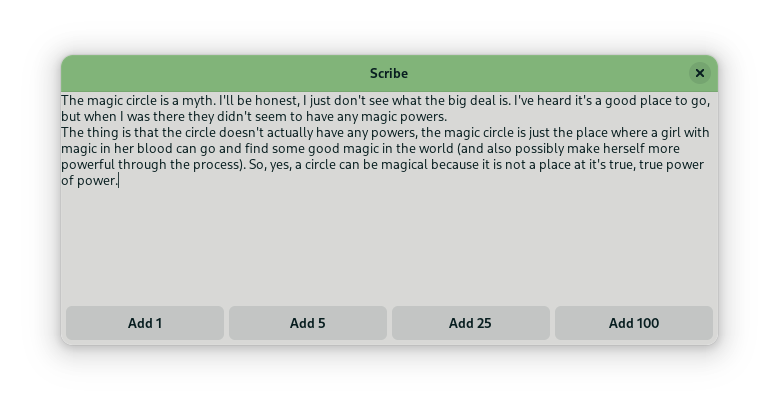
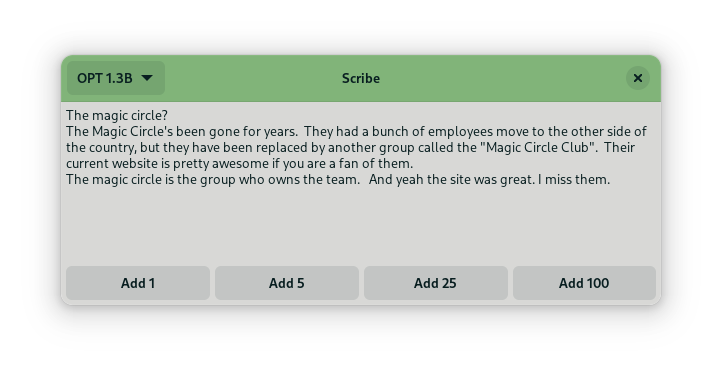
Add a selection of model sizes :sparkles:
Possible uses:
- Trade off between time and accuracy
- Comparing capabilities of the different models
- Selecting a smaller model on a less powerful device

diff --git a/scribe/__main__.py b/scribe/__main__.py
@@ -8,7 +8,14 @@ from threading import Thread
 import torch
 from transformers import AutoModelForCausalLM, AutoTokenizer
 
-MODEL = "facebook/opt-1.3b"
+MODELS = {
+    "OPT 125M": "facebook/opt-125m",
+    "OPT 350M": "facebook/opt-350m",
+    "OPT 1.3B": "facebook/opt-1.3b",
+    "OPT 2.7B": "facebook/opt-2.7b"
+}
+MODEL_NAMES = list(MODELS.keys())
+DEFAULT_MODEL = "OPT 1.3B"
 
 class MainWindow(Gtk.ApplicationWindow):
     def __init__(self, *args, **kwargs):
@@ -18,6 +25,13 @@ class MainWindow(Gtk.ApplicationWindow):
             default_width=600,
             default_height=250
         )
+
+        self.header_bar = Gtk.HeaderBar()
+        self.set_titlebar(self.header_bar)
+
+        self.model_dropdown = Gtk.DropDown.new_from_strings(MODEL_NAMES)
+        self.model_dropdown.connect('notify::selected-item', self.load_selected_model)
+        self.header_bar.pack_start(self.model_dropdown)
 
         self.main_box = Gtk.Box(orientation=Gtk.Orientation.VERTICAL)
         self.set_child(self.main_box)
@@ -58,7 +72,7 @@ class MainWindow(Gtk.ApplicationWindow):
         self.create_add_button(25)
         self.create_add_button(100)
 
-        self.load_model(MODEL)
+        self.load_model(DEFAULT_MODEL)
 
     def create_add_button(self, token_count):
         overlay = Gtk.Overlay()
@@ -70,14 +84,30 @@ class MainWindow(Gtk.ApplicationWindow):
 
         self.buttons.append(button)
 
+    def load_selected_model(self, _dropdown, _pspec):
+        item = self.model_dropdown.props.selected_item
+        if item is not None:
+            self.load_model(item.props.string)
+
     def load_model(self, model_name):
         self.start_working(f"Loading {model_name}", editable=True)
+
+        # Usually the model to load is already selected, but not during initialisation
+        selected_index = MODEL_NAMES.index(model_name)
+        self.model_dropdown.set_selected(selected_index)
 
         Thread(target=self.load_model_thread, args=(model_name,)).start()
 
     def load_model_thread(self, model_name):
-        self.model = AutoModelForCausalLM.from_pretrained(model_name)
-        self.tokenizer = AutoTokenizer.from_pretrained(model_name, use_fast=False)
+        # Ensure the previous model is unloaded first, to reduce peak memory usage
+        if hasattr(self, "model"):
+            del self.model
+            del self.tokenizer
+
+        model_path = MODELS[model_name]
+
+        self.model = AutoModelForCausalLM.from_pretrained(model_path)
+        self.tokenizer = AutoTokenizer.from_pretrained(model_path, use_fast=False)
 
         GLib.idle_add(self.stop_working)
 
@@ -118,6 +148,7 @@ class MainWindow(Gtk.ApplicationWindow):
 
         self.entry.set_editable(editable)
 
+        self.model_dropdown.set_sensitive(False)
         for button in self.buttons:
             button.set_sensitive(False)
 
@@ -127,6 +158,7 @@ class MainWindow(Gtk.ApplicationWindow):
 
         self.entry.set_editable(True)
 
+        self.model_dropdown.set_sensitive(True)
         for button in self.buttons:
             button.set_sensitive(True)
 
